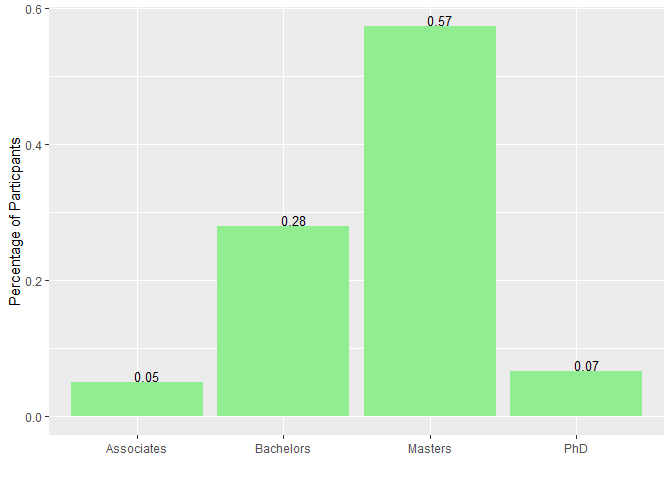
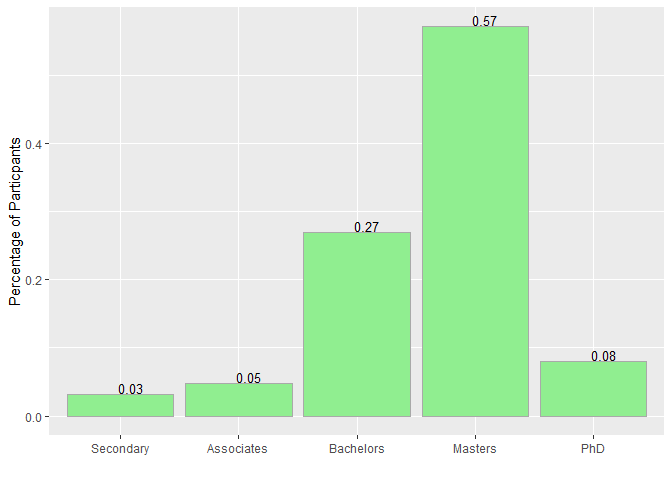
5/7/2020 #2

diff --git a/CATTCon_Personality_Dashboard.md b/CATTCon_Personality_Dashboard.md
@@ -1,61 +1,138 @@
-NG CATTConV Survey Results
+Northrop Grumman CATTConV Survey Results
 ================
 
-### 61 cybersecurity professionals and 14 professionals filling non-cybersecurity roles participated in this data collection.
+### 63 cybersecurity professionals participated in this data collection. 38 other professionals (ex. Program Managers, Systems Engineers) also participated in this data collection.
 
-### Demographic Information (Education, Certifications, Hobbies)
+### Demographic Information of Cyberseucrity Particpants (Education, Certifications, Hobbies)
 
-##### Education: Highest degree achieved by percentage of cybersecuirty professionals. Of the 61 cybersecurity professionals, 77 percent have degrees in Computer Science or related fields.
+##### Education: Highest degree achieved by percentage of Northrop Grumman Cybersecuirty Professionals. Of the 63 cybersecurity professionals, 76 percent have degrees in Computer Science or related fields.
 
 ![](CATTCon_Personality_Dashboard_files/figure-gfm/unnamed-chunk-1-1.png)<!-- -->
 
-##### Years of Experience of cybersecuirty professionals. The average experience reported was 11 years.
+##### Years of Experience of Northrop Grumman Cybersecuirty Professionals. The average experience reported was 11 years.
 
 ![](CATTCon_Personality_Dashboard_files/figure-gfm/unnamed-chunk-2-1.png)<!-- -->
 
-##### Certifications reported by cybersecurity professionals.
+    ## $x
+    ## [1] "Years of Experience"
+    ## 
+    ## attr(,"class")
+    ## [1] "labels"
+
+    ##    Min. 1st Qu.  Median    Mean 3rd Qu.    Max.    NA's 
+    ##    0.00    4.00   10.00   11.25   19.50   30.00      38
+
+##### Certifications reported by Northrop Grumman Cybersecurity Professionals. 2-3 certifications were reported by most participants.
 
 ![](CATTCon_Personality_Dashboard_files/figure-gfm/unnamed-chunk-3-1.png)<!-- -->
 
-##### Hobbies reported by cybersecurity professionals.
+##### Hobbies reported by Northrop Grumman Cybersecurity Professionals.
 
 ![](CATTCon_Personality_Dashboard_files/figure-gfm/unnamed-chunk-4-1.png)<!-- -->
 
-### Behavioral Trait Importance
+### Personality Trait Raw Scores
 
-##### Results of **importance ratings** of 8 personality categories for performance in cybersecurity roles.
+###### Northrop Grumman Cybersecurity professionals are displayed in the **green** boxplots. Boxplots graphically depict numerical data through their quartiles. Boxplots are non-parametric: they display variation in samples of a statistical population without making any assumptions of the underlying statistical distribution. The median value is labeled in **red** text. Outliers are plotted as black dots.
 
-  - *Adaptability*: ability to adjust to new conditions.
-  - *Assessment*: focus on self-evaluation and “doing the right thing.”
-  - *Curiosity*: seek out situations with potential for new information
-    and experiences.
-  - *Grit*: perseverance and passion for long-term goals.
-  - *Locomotion*: decisiveness, task orentiation, intrinsic motivation
-    to get the job done.
-  - *Need for Cognition*: engage and enjoy effortful cognitive
-    endeavors.
-  - *Non-Conformity*: refusal to conform to prevailing rules or
-    practices.
-  - *Skepticism*: critically asssessing evidence before making a
-    decision.
-
-##### Mean scores are reproted in green dots with 95% confidence intervals.
-
-##### **Scale: 1 - Not Important, 7 - Very Important**
+###### T Scores are used to display results in comparison to a reference. A T Score of 50 represents the population average, with 40 and 60 representing one standard deviation higher and lower than the population, respectively. These T Scores were based on results published in peer reviewed literature noted in the references and data available from the Eugene-Springfield Community Sample at <https://dataverse.harvard.edu/dataverse/ESCS-Data>.
 
 ![](CATTCon_Personality_Dashboard_files/figure-gfm/unnamed-chunk-5-1.png)<!-- -->
 
-### Distribution of Respondent Raw Scores
+##### The definition of each dimension, in order of their scores among cybersecurity professionals, is as follows:
+
+  - *StressTolerance*: Ability to cope win the anxiety inherent in
+    confronting the new, unexpected, complex, mysterious, and obscure
+    events.
+  - *Locomotion*: decisiveness, task orentiation, intrinsic motivation
+    to get the job done.
+  - *JoyousExploration*: Preference for new information and experiences,
+    and the valuing of self-expansion over security.
+  - *Non-Conformity*: refusal to conform to prevailing rules or
+    practices.
+  - *DeprivationSensitivity*: Seeking information to escape the tension
+    of not knowing something. Intellectually engaged to think about
+    abstract or complex ideas and solve problems.
+  - *Adaptability*: ability to adjust to new conditions.
+  - *ThrillSeeking*: On the hunt for varied, novel, complex, and intense
+    experiences and ready to risk physical, social, and financial
+    safety.
+  - *Need for Cognition*: engage and enjoy effortful cognitive
+    endeavors.
+  - *SocialCuriosity*: Desire to know what other people are thinking and
+    doing through overt means (observing and probing questions) or
+    covert means (listening into conversations or gathering second-hand
+    information).
+  - *Professional Skepticism*: Characteristic of withholding a
+    conclusion on a matter until sufficient evidence to form a basis for
+    a reasonable conclusion has been obtained; Taking a step back from
+    an issue, position, or posture and asking “does this make sense to
+    me?”; Attitude to look below the surface and see if the numbers,
+    situation, factors or people look out of place; Ability to ask
+    questions beyond the obvious answer; Not placing inappropriate
+    degree of trust in people, processes, controls and data; Someone who
+    would be unafraid to pursue a resolution when he/she uncovers a
+    questionable activity.
+  - *Assessment*: focus on self-evaluation and “doing the right thing.”
+  - *Grit*: perseverance and passion for long-term goals.
+
+### Personality Traits and Years of Experience. Several moderate correlations between Years of Experience and Behavioral Traits were observed in the data. Experience correlated positively with Self-Efficacy, Self-Confidence, Self-Determining, and Stress Tolerance. Experience correlated negatively with Deprivation Sensitivity and Assessment.
 
 ![](CATTCon_Personality_Dashboard_files/figure-gfm/unnamed-chunk-6-1.png)<!-- -->
+\#\#\#\#\#\# Positive Correlations with Experience \* *Self-Efficacy*:
+belief in one’s own ability to deal with a prospective situation in
+cybersecurity roles. \* *SelfConfidence*: Someone who would be unafraid
+to pursue a resolution when he/she uncovers a questionable activity. \*
+*SelfDetermining*: Taking a step back from an issue, position, or
+posture and asking “does this make sense to me?” \* *StressTolerance*:
+Ability to cope win the anxiety inherent in confronting the new,
+unexpected, complex, mysterious, and obscure events.
 
-### Personality Trait Raw Scores (17 Dimensions)
+###### Negative Correlations with Experience
 
-###### Cybersecurity professionals are displayed in the **green** boxplots. Boxplots graphically depict numerical data through their quartiles. Boxplots are non-parametric: they display variation in samples of a statistical population without making any assumptions of the underlying statistical distribution. The median value is labeled in **red** text. Outliers are plotted as black dots.
+  - *Assessment*: focus on self-evaluation and “doing the right thing.”
+  - *DeprivationSensitivity*: Seeking information to escape the tension
+    of not knowing something. Intellectually engaged to think about
+    abstract or complex ideas and solve problems.
+
+### Self Efficacy Correlations
+
+##### Self-Efficacy is belief in one’s own ability to deal with a prospective situation in cybersecurity roles.
 
 ![](CATTCon_Personality_Dashboard_files/figure-gfm/unnamed-chunk-7-1.png)<!-- -->
 
-##### The definition of each dimension, in order of their scores among cybersecurity professionals, is as follows:
+### K Means Clustering
+
+###### K means clustering identified three distinct clusters based on all respondant responses.
+
+###### The largest cluster, *Cluster 2*, generally scored high across all the dimensions.
+
+###### Cluster 1, consists of respondants with significantly lower scores on Stress Tolerance, Self Determining, Thrill Seeking and significantly higher Suspension of Judgement.
+
+###### Cluster 3, consists of respondants with significantly lower scores on Social Curiosity, Interpersonal Understanding, Thrill Seeking, Deprivation Sensitivity, and Assessment.
+
+###### Little variability was observed between personality clusters in the following dimensions: Non-Conformity, Search for Knowledge, Joyous Exploration, Questioning Mind, Locomotion, Adaptabiliy, Grit, Suspension of Judgement.
+
+![](CATTCon_Personality_Dashboard_files/figure-gfm/unnamed-chunk-8-1.png)<!-- -->
+
+### Analysis of the Questionnaire: Correlation of Personality Dimensions
+
+##### Green boxes are drawn around results of hierarchical clustering of personality dimensions based on responses to the personality questionnaire.
+
+![](CATTCon_Personality_Dashboard_files/figure-gfm/unnamed-chunk-9-1.png)<!-- -->
+
+#### References:
+
+###### Adaptability and Conformity, International Personality Item Pool: A Scientific Collaboratory for the Development of Advanced Measures of Personality Traits and Other Individual Differences. <http://ipip.ori.org/>
+
+###### Cacioppo, J. T., Petty, R. E., and Kao, C. F. (1984). The efficient assessment of need for cognition. *Journal of Personality Assessment*, 48, 306-307.
+
+###### Duckworth, A. L. & Quinn, P. D. (2009). Development and validation of the Short Grit Scale (Grit-S). *Journal of Personality Assessment*, 91(2), 166-174.
+
+###### Hurt, R. K. (2010, May). Development of a Scale to Measure Professional Skepticism. *Auditing: A Journal of Practice and Theory*, 29(1), 149-171.
+
+###### Kashdan, T. B., Stiksma, M. C., Disabato, D. J., Mcknight, P. E.,, Bekier, J., Kaji, J., Lazarus, R. (2017, December). The Five-Dimension Curiosity Scale: Capturing the bandwidth of curisity and identifying four unique subgrups of curious people. *Journal for Research in Personality*, 73, 130-149.
+
+###### Kruglanski, A. W., Thompson, E. P., Higgins, E. T., Atash, M. N., Pierro, A., Shah, J. Y., Spiegel, S. (2000, Nov). To “do the right thing” or to “just do it”: Locomotion and assessment as distinct self-regulatory imperatives. *Journal of Personality and Social Psychology*, 79(5), 793-815.
 
   - *SearchforKnowledge*: Ability to ask questions beyond the obvious
     answer.
@@ -94,40 +171,3 @@ NG CATTConV Survey Results
     safety.
   - *Non-Conformity*: refusal to conform to prevailing rules or
     practices.
-
-### Personality Trait Raw Scores by self-reported Technical Level
-
-![](CATTCon_Personality_Dashboard_files/figure-gfm/unnamed-chunk-8-1.png)<!-- -->
-
-### Self-efficacy reported by cybersecurity technical level (High, Medium, Low)
-
-  - *Self-Efficacy*: belief in one’s own ability to deal with a
-    prospective situation in cybersecurity roles.
-
-##### **Scale: 1 - low confidence in ability, 7 - very high confidence in ability/knowledge**
-
-![](CATTCon_Personality_Dashboard_files/figure-gfm/unnamed-chunk-9-1.png)<!-- -->
-
-### Correlation of Personality Dimensions
-
-##### Green boxes are drawn around results of hierarchical clustering of these personality dimensions.
-
-![](CATTCon_Personality_Dashboard_files/figure-gfm/unnamed-chunk-10-1.png)<!-- -->
-
-### Army Tier1 Comparison: Personality Trait Raw Scores by self-reported Tier1 category
-
-![](CATTCon_Personality_Dashboard_files/figure-gfm/unnamed-chunk-11-1.png)<!-- -->
-
-#### References:
-
-###### Adaptability and Conformity, International Personality Item Pool: A Scientific Collaboratory for the Development of Advanced Measures of Personality Traits and Other Individual Differences. <http://ipip.ori.org/>
-
-###### Cacioppo, J. T., Petty, R. E., and Kao, C. F. (1984). The efficient assessment of need for cognition. *Journal of Personality Assessment*, 48, 306-307.
-
-###### Duckworth, A. L. & Quinn, P. D. (2009). Development and validation of the Short Grit Scale (Grit-S). *Journal of Personality Assessment*, 91(2), 166-174.
-
-###### Hurt, R. K. (2010, May). Development of a Scale to Measure Professional Skepticism. *Auditing: A Journal of Practice and Theory*, 29(1), 149-171.
-
-###### Kashdan, T. B., Stiksma, M. C., Disabato, D. J., Mcknight, P. E.,, Bekier, J., Kaji, J., Lazarus, R. (2017, December). The Five-Dimension Curiosity Scale: Capturing the bandwidth of curisity and identifying four unique subgrups of curious people. *Journal for Research in Personality*, 73, 130-149.
-
-###### Kruglanski, A. W., Thompson, E. P., Higgins, E. T., Atash, M. N., Pierro, A., Shah, J. Y., Spiegel, S. (2000, Nov). To “do the right thing” or to “just do it”: Locomotion and assessment as distinct self-regulatory imperatives. *Journal of Personality and Social Psychology*, 79(5), 793-815.
